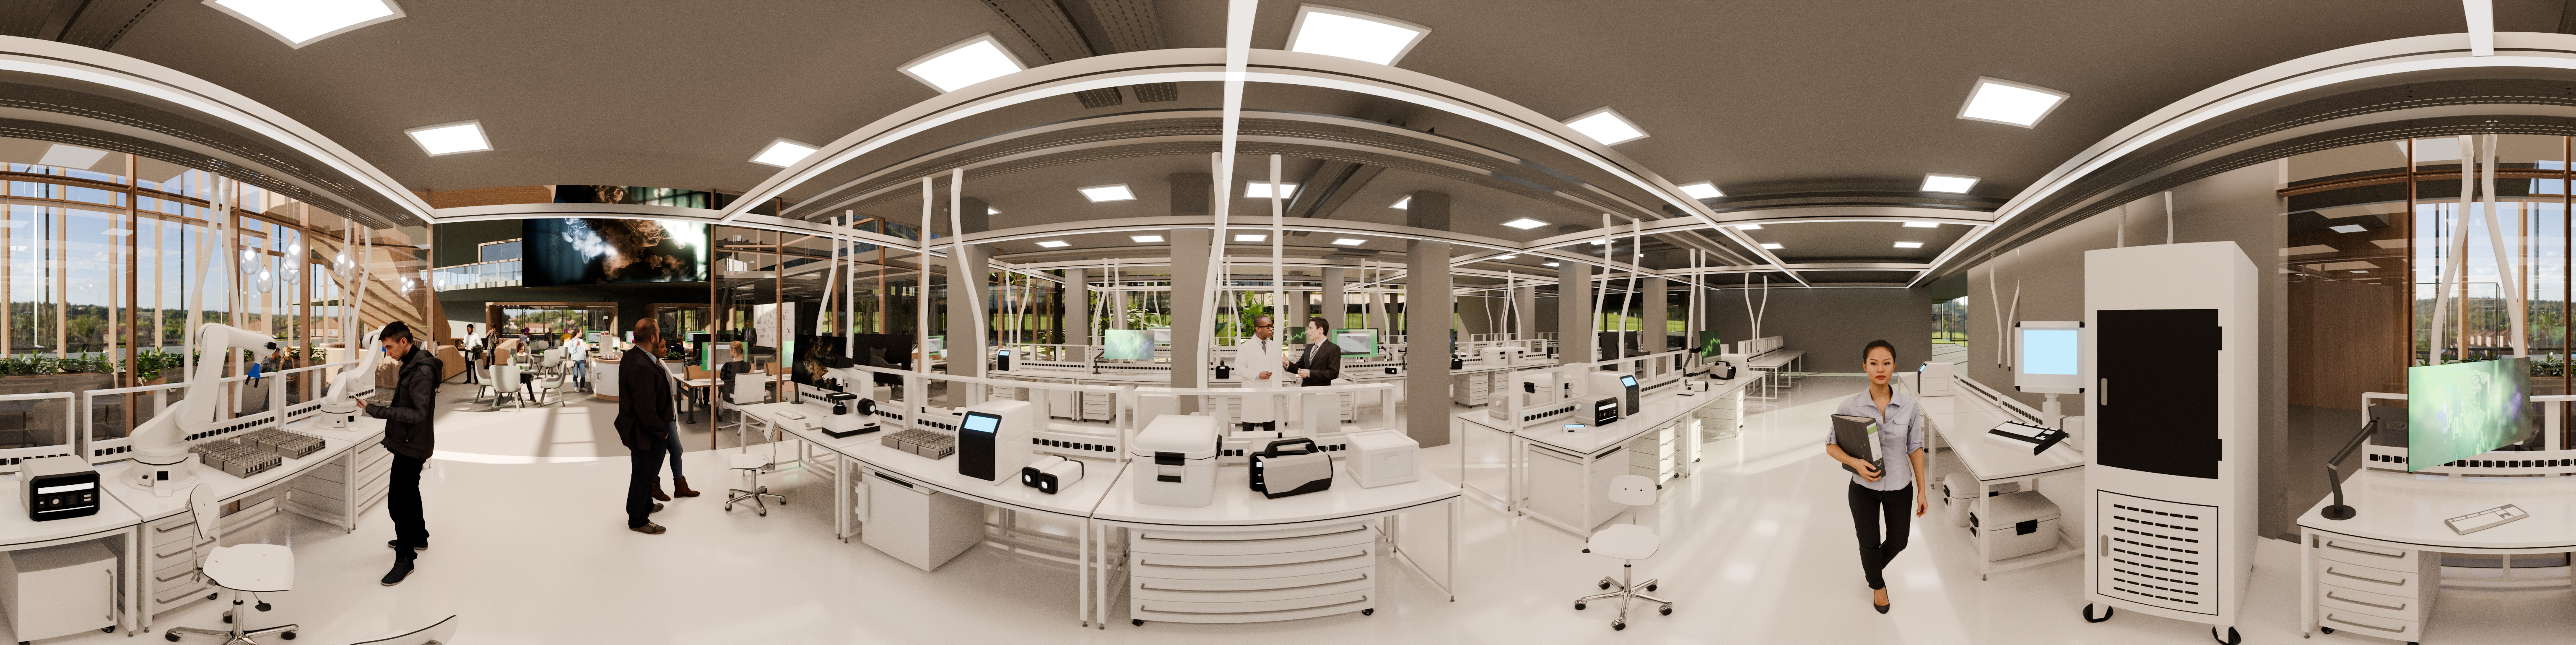
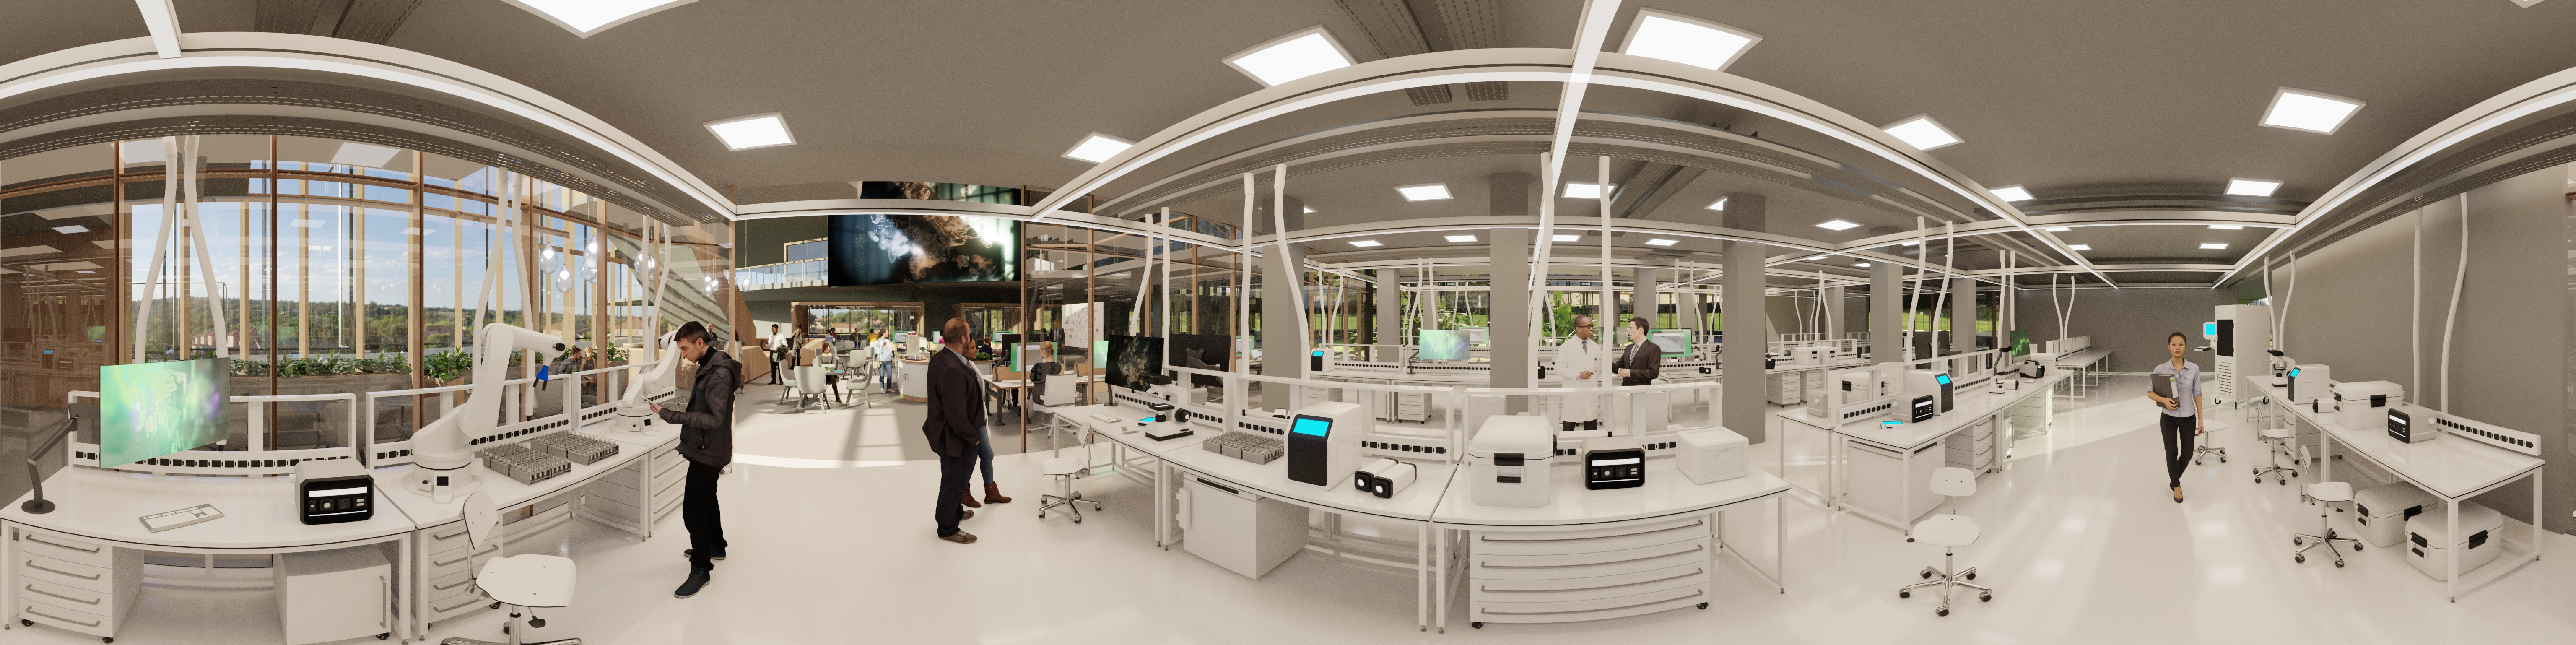
Updates background image Updates popup layout

diff --git a/src/components/popups/Popup.jsx b/src/components/popups/Popup.jsx
@@ -29,39 +29,40 @@ export default function Popup({ id, currentPopup, closePopups }) {
   }
 
   return (
+
     <div className={"popup " + (currentPopup === id ? "in" : "")}>
-
-      <Swiper
-        modules={[Navigation, Pagination, Keyboard]}
-        spaceBetween={50}
-        keyboard={{ enabled: true }}
-        slidesPerView={1}
-        navigation
-        pagination={{ clickable: true }}
-      >
-        {
-          slides.map((slide, index) => {
-            if (slide.video) {
-              return (
-                <SwiperSlide key={index}>
-                  <div className="video-wrapper">
-                    <Image width="1920" height="1080" alt="slide" className="vidyard-player-embed" data-uuid={slide.UUID} data-v="4" data-type="inline" />
-                  </div>
-                </SwiperSlide>
-              )
-            } else {
-              return (
-                <SwiperSlide key={index}>
-                  <Image width="1920" height="1080" alt="slide" className="swiper-slide" src={slide.fileName} />
-                </SwiperSlide>
-              )
-            }
-          })
-        }
-      </Swiper>
-
-      <div title="Close Popup" className="popup-close-button" onClick={closePopup}>
-        <div className="popup-close-button-text">+</div>
+        <div className='popup-body'>
+        <Swiper
+          modules={[Navigation, Pagination, Keyboard]}
+          spaceBetween={50}
+          keyboard={{ enabled: true }}
+          slidesPerView={1}
+          navigation
+          pagination={{ clickable: true }}
+        >
+          {
+            slides.map((slide, index) => {
+              if (slide.video) {
+                return (
+                  <SwiperSlide key={index}>
+                    <div className="video-wrapper">
+                      <Image width="1920" height="1080" alt="slide" className="vidyard-player-embed" data-uuid={slide.UUID} data-v="4" data-type="inline" />
+                    </div>
+                  </SwiperSlide>
+                )
+              } else {
+                return (
+                  <SwiperSlide key={index}>
+                    <Image width="1920" height="1080" alt="slide" className="swiper-slide" src={slide.fileName} />
+                  </SwiperSlide>
+                )
+              }
+            })
+          }
+        </Swiper>
+        <div title="Close Popup" className="popup-close-button" onClick={closePopup}>
+          <div className="popup-close-button-text">+</div>
+        </div>
       </div>
     </div>
   )

diff --git a/src/components/popups/popup.css b/src/components/popups/popup.css
@@ -3,8 +3,8 @@
 
 .popup {
   display: flex;
-  position: absolute;
   z-index: 12;
+  position: absolute;
   width: 100%;
   min-height: 100vh;
   background-color: #fff;
@@ -14,6 +14,7 @@
   opacity: 0;
   bottom: 100vh;
   transition: opacity 0.2s ease;
+  background: #10171a99;
 }
 
 .popup.in {
@@ -21,13 +22,13 @@
   top: 0;
 }
 
-.popup-container {
-  width: 100%;
-  height: 100vh;
-  align-items: center;
-  margin-left: auto;
-  margin-right: auto;
+.popup-body {
+  position: relative;
   display: flex;
+  align-items: center;
+  justify-content: center;
+  width: 90%;
+  background: #fff;
 }
 
 .popup-close-button {
@@ -40,6 +41,7 @@
   display: flex;
   top: 10px;
   right: 10px;
+  z-index: 1;
 }
 
 .popup-close-button-text {

diff --git a/src/app/lab/page.jsx b/src/app/lab/page.jsx
@@ -52,9 +52,9 @@ export default function Home() {
         backgroundRef={backgroundRef}
         sceneScroll={sceneScroll} setSceneScroll={setSceneScroll}>
         <Hotspots>
-          <Hotspot label="Lorem Ipsum" position={{ x: 54, y: 41 }} clickHandler={openPopup} targetPopup="1" type="icon" />
-          <Hotspot label="Dolorem Sit Amet" position={{ x: 197, y: 42 }} clickHandler={openPopup} targetPopup="5" type="icon" />
-          <Hotspot label="Back to the main floor" position={{ x: 83, y: 36 }} targetPopup="4" type="zoom" link="/?nohelp=true" />
+          <Hotspot label="Lorem Ipsum" position={{ x: 81, y: 44 }} clickHandler={openPopup} targetPopup="1" type="icon" />
+          <Hotspot label="Dolorem Sit Amet" position={{ x: 246, y: 42 }} clickHandler={openPopup} targetPopup="5" type="icon" />
+          <Hotspot label="Back to the main floor" position={{ x: 130, y: 40 }} targetPopup="4" type="zoom" link="/?nohelp=true" />
         </Hotspots>
       </Scene>
 

diff --git a/src/app/page.jsx b/src/app/page.jsx
@@ -46,10 +46,10 @@ export default function Home() {
         backgroundRef={backgroundRef}
         sceneScroll={sceneScroll} setSceneScroll={setSceneScroll}>
         <Hotspots>
-          <Hotspot label="Overview" position={{ x: 32, y: 45 }} clickHandler={openPopup} targetPopup="1" type="icon" />
-          <Hotspot label="Dolorem Sit Amet" position={{ x: 86, y: 52 }} clickHandler={openPopup} targetPopup="2" type="icon" number="1" />
+          <Hotspot label="Overview" position={{ x: 31, y: 43 }} clickHandler={openPopup} targetPopup="1" type="icon" />
+          <Hotspot label="Dolorem Sit Amet" position={{ x: 86, y: 46 }} clickHandler={openPopup} targetPopup="2" type="icon" number="1" />
           <Hotspot label="Lab" position={{ x: 266, y: 42 }} targetPopup="4" type="zoom" link="/lab" />
-          <Hotspot label="Puela Cantat" position={{ x: 353, y: 52 }} clickHandler={openPopup} targetPopup="5" type="icon" />
+          <Hotspot label="Puela Cantat" position={{ x: 293, y: 43 }} clickHandler={openPopup} targetPopup="5" type="icon" />
         </Hotspots>
       </Scene>
 